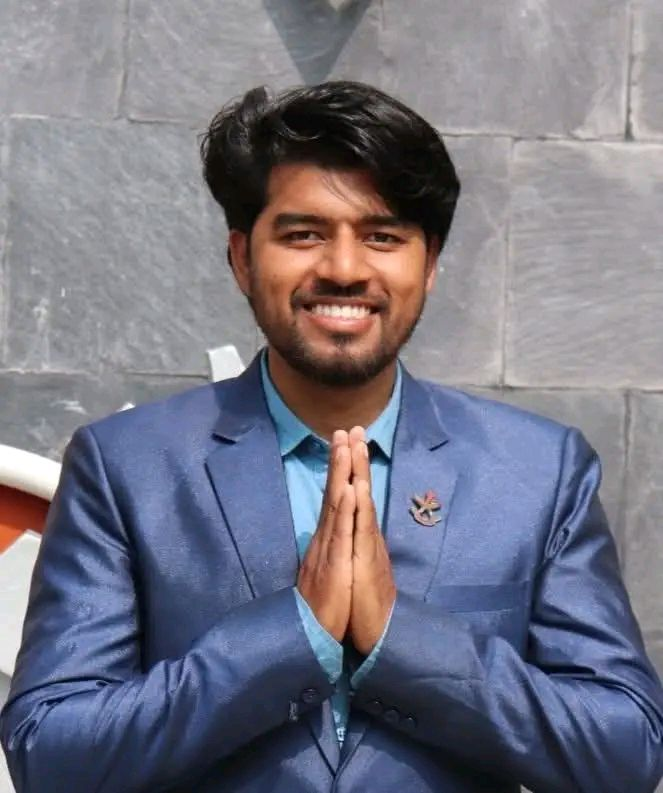
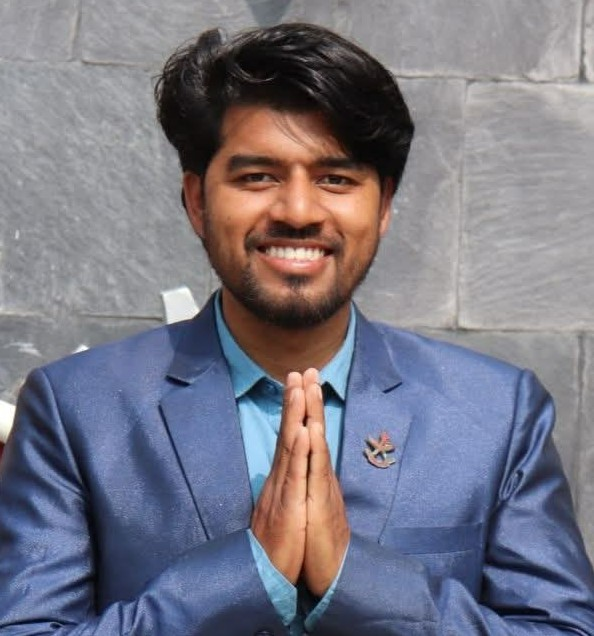
added some new pics in mempgtsx

diff --git a/src/pages/MembersPage.tsx b/src/pages/MembersPage.tsx
@@ -152,7 +152,7 @@ const members: Member[] = [
         name: "Lalit Dani",
         position: "General Member",
        
-        image: "/members/Lalit.jpg",
+        image: "/members/lalit.jpg",
        
     },
     {
